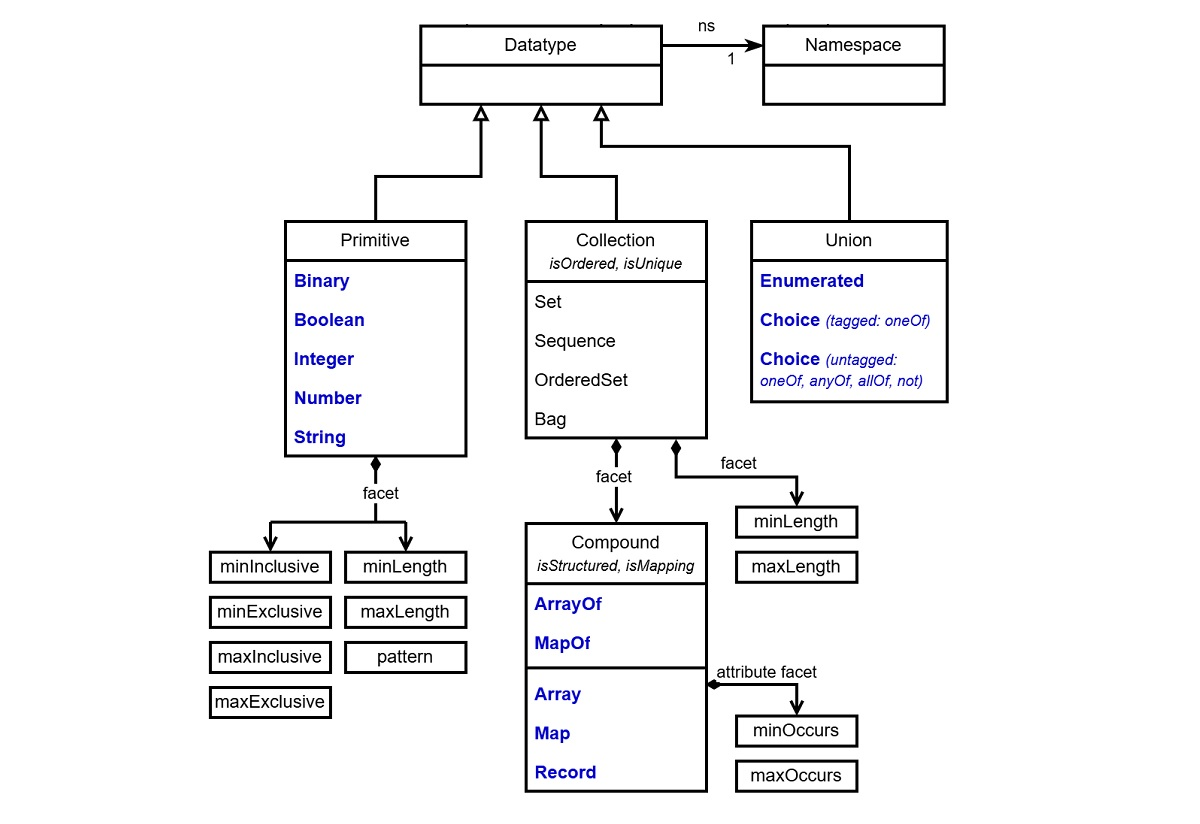
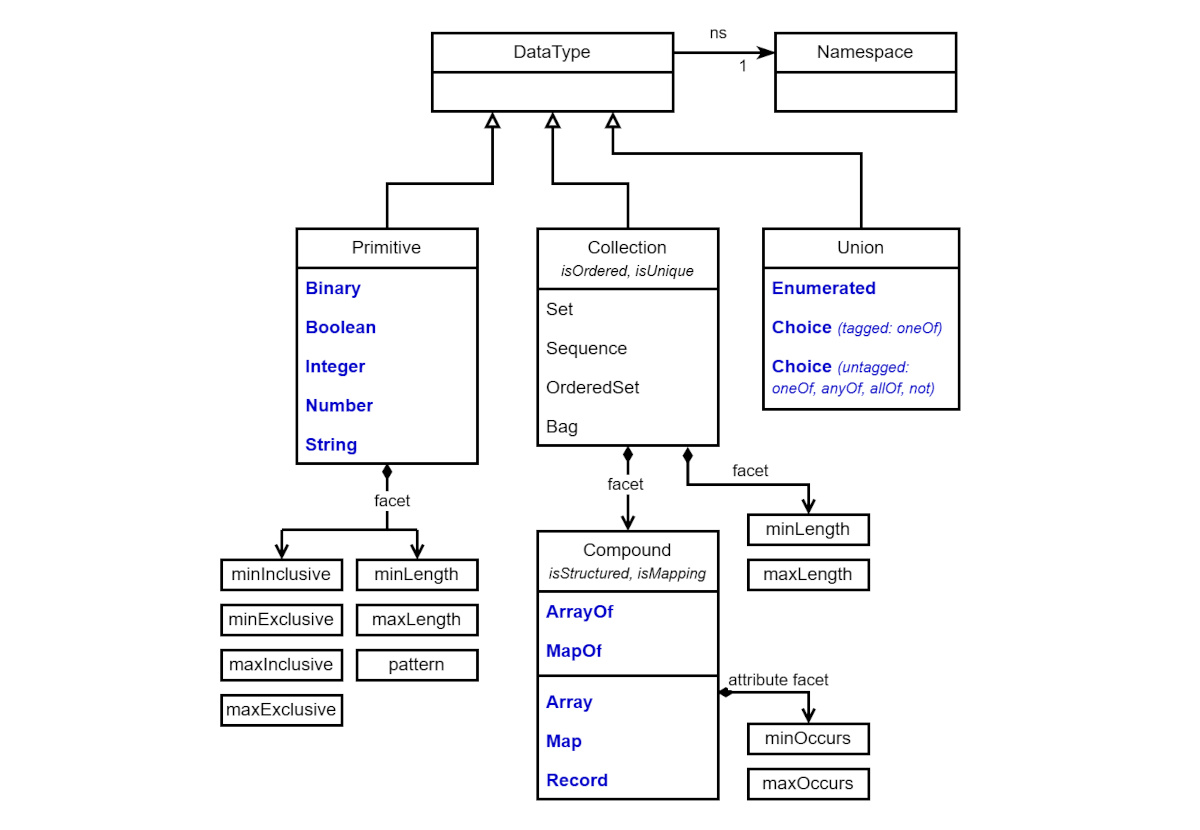
updates from review

Changed region(s): [[0.4317, 0.2124, 0.8017, 0.9709], [0.1542, 0.2124, 0.4008, 0.8799], [0.3392, 0.0303, 0.8017, 0.2124]]

diff --git a/jadn-v2.0.md b/jadn-v2.0.md
@@ -5,7 +5,7 @@
 
 ## Committee Specification Draft 01
 
-## 8 January 2025
+## 22 January 2025
 
 &nbsp;
 
@@ -36,8 +36,8 @@ David Kemp (d.kemp@cyber.nsa.gov), [National Security Agency](https://www.nsa.go
 
 #### Additional artifacts:
 This prose specification is one component of a Work Product that also includes:
-* JSON schema for JADN documents: https://docs.oasis-open.org/openc2/jadn/v1.0/cs01/schemas/jadn-v1.1.json
-* JADN schema for JADN documents: https://docs.oasis-open.org/openc2/jadn/v1.0/cs01/schemas/jadn-v1.1.jadn
+* JSON schema for JADN documents: https://docs.oasis-open.org/openc2/jadn/v2.0/cs01/schemas/jadn-v2.0.json
+* JADN schema for JADN documents: https://docs.oasis-open.org/openc2/jadn/v2.0/cs01/schemas/jadn-v2.0.jadn
 
 #### Abstract:
 An Information Model (IM) defines the meaning and essential content of data used in computing independently
@@ -125,8 +125,8 @@ information conveyed in a message is not directly related to the size or format 
 * **Data items** (documents, messages, protocol data units, data structures, object state, etc.)
 are JADN's scope within a system's domain of discourse.
 
-An information model answers the question "What does the recipient know after receiving a data item"?
-It defines and communicates a form separately from the values used to fill it in.
+An information model defines the question "What does the recipient know after receiving
+a data item" separately from "what does a data item look like".
 
 > *The objective of UML is to provide system architects, software engineers, and software developers
 with tools for analysis, design, and implementation of software-based systems as well as for modeling
@@ -265,11 +265,11 @@ organized into abstract schema packages which are included in an application's i
 ![Information Model Structure](images/im-toplevel.jpg)
 ###### Figure 2-1 -- Information Model Organization
 
-* An IM consists of a set of abstract schemas that define information content, and a set of
+* A JADN IM consists of a set of abstract schemas that define information content, and a set of
 encoding rules that define the lexical-to-value mapping in a specific data format for each JADN core type.
 * Schema is the top level JADN type. It has two fields:
   * "Metadata" containing descriptive and functional information about the schema package as a whole.
-  * List of "Type" containing JADN type definitions. Every type definition is a UML DataType
+  * List of "Type" containing JADN type definitions. Every type definition is a UML DataType.
 * An instance of the Schema type is identified by a globally-unique package namespace.
 Types defined in a package have names qualified by its namespace, and reference types defined in other
 packages by their qualified names. An individual Schema instance is called a "package" because it is an
@@ -283,9 +283,9 @@ Applications load relevant package(s) plus any additional packages needed to res
 [Section 5](#5-shortcuts) defines shortcuts that make type definitions more convenient without affecting meaning.  \
 [Section 6](#6-serialization-and-data-formats) discusses using encoding rules to define concrete data formats.  \
 [Section 7](#7-alternate-schema-representations) describes non-normative alternate JADN schema formats:
-* a text-based information definition language (IDL) defined and validated by a language grammar
-* property tables used in protocol or document format specifications
-* entity-relationship diagrams (ERDs) used for data modeling
+  * a text-based information definition language (IDL) defined and validated by a language grammar
+  * property tables used in protocol or document format specifications
+  * entity-relationship diagrams (ERDs) used for data modeling
 
 The normative format of a Schema package, as defined in Sections 3 and 4, is JSON data that can be validated by a
 schema, but a package can also be represented unambiguously in other formats more suited to human understanding.
@@ -302,7 +302,7 @@ A UML package is a namespace for its members, and a JADN abstract schema is comp
 All packages, including the one defining JADN itself, are instances of JADN's `Schema` type.
 Schema has two fields: package metadata defined in this section
 ([Figure 3-1](#figure-3-1----jadn-schema-metadata)), and a list of type definitions defined
-in the [next section](#4-jadn-types).
+in [Section 4](#4-jadn-types).
 
 ```
        title: "JADN Metaschema"
@@ -369,7 +369,6 @@ These Metadata fields affect schema processing:
 * **package:** A namespace [[IRI](#iri)] that unambiguously identifies this Schema instance and allows type
 definitions in this package to be unambiguously referenced from other packages.
 This is a unique identifier but not necessarily a resource locator.
-If Metadata is present in a Schema instance it must include the package field; all other fields are optional.
 
 * **version:** Incremental revision of this package, a string that compares lexicographically higher
 than previous revisions. A package namespace uniquely identifies both the topic and published version
@@ -411,17 +410,18 @@ are prefixed names that include an NSID.
   * **Size Limits:** These variables define default maximum sizes for variable-sized
 Primitive and Compound types ([Section 4](#4-jadn-types)).
 Individual type definitions override implementation or package defaults using type options.
-    * **$MaxBinary:** Maximum number of octets in a Binary instance. Default maxLength = 255
-    * **$MaxString:** Maximum number of characters in a String instance. Default maxLength = 255
-    * **$MaxElements:** Maximum number of items in an ArrayOf or MapOf instance. Default maxOccurs = 255
+    * **$MaxBinary:** Maximum number of octets in a Binary instance. Default `maxLength` = 255
+    * **$MaxString:** Maximum number of characters in a String instance. Default `maxLength` = 255
+    * **$MaxElements:** Maximum number of items in an ArrayOf or MapOf instance. Default `maxOccurs` = 255
 
-### 3.1.4 Package Conformance Requirements
+### 3.1.3 Package Conformance Requirements
 * The $TypeName format MUST permit TypeNames containing the $Sys character, which is used
 in type names generated by schema processing and translation.
 * The $FieldName format MUST NOT permit FieldNames containing the $Sys character, to enable its
 use as a path component separator.
 * A TypeRef instance MUST be a qualified name (`QName`) as defined in [[XML Namespaces](#xml-namespaces)]
 using $NSID and $TypeName instances as `Prefix` and `LocalPart` respectively.
+* If Metadata is present in a Schema instance it MUST include the package field; all other fields are optional.
 
 -------
 
@@ -498,9 +498,9 @@ Each type definition has five elements:
 
 **Defaults:**
 
-If TypeOptions is not present in a type definition, its default is the empty array.  \
-If TypeDescription is not present, its default is the empty string.  \
-If Fields is not present, its default is the empty array.
+* If TypeOptions is not present in a type definition, its default is the empty array.
+* If TypeDescription is not present, its default is the empty string.
+* If Fields is not present, its default is the empty array.
 
 ### 4.1.1 Primitive
 If CoreType is a Primitive or unstructured Compound type, the **Fields** array is empty.
@@ -703,8 +703,8 @@ Compound TypeOptions are listed in [Table 4-2](#table-4-2-typeoptions-specific-t
 
 | ID   | Chr | Type    | Name           | Description                                                   |
 |------|:---:|---------|----------------|---------------------------------------------------------------|
-| 0x2a |  *  | String  | vtype          | Value type for ArrayOf and MapOf                              |
-| 0x2b |  +  | String  | ktype          | Key type for MapOf                                            |
+| 0x2a |  *  | TypeRef | vtype          | Value type for ArrayOf and MapOf                              |
+| 0x2b |  +  | TypeRef | ktype          | Key type for MapOf                                            |
 | 0x7b |  {  | Integer | minLength      | Minimum number of items in a collection, default is 0         |
 | 0x7d |  }  | Integer | maxLength      | Maximum number of items in a collection, default is unlimited |
 | 0x3d |  =  | Boolean | id             | Fields are identified by FieldID not FieldName                |
@@ -807,7 +807,7 @@ multiple instances of a type.
 
 #### 4.2.2.2 Compound Type Conformance Requirements
 
-* A compound type MUST NOT include more than on multiplicity option (set, unique, ordered, or unordered).
+* A compound type MUST NOT include more than one multiplicity option (set, unique, ordered, or unordered).
 * If CoreType is ArrayOf, TypeOptions MUST include the vtype option.
 * If CoreType is MapOf, TypeOptions MUST include ktype and vtype options.
 * The ktype option SHOULD be a constrained type such as an enumeration, pattern or semantic valuation keyword
@@ -827,9 +827,9 @@ otherwise identical instance without that key.
 
 ### 4.2.3 Union Types
 
-A union type specifies a set of alternatives used to classify a value, where either a single alternative is
-selected by a tag present in the value, or the value is an instance of a specified combination of alternatives.
-A tag consists of an integer and a string, each of which is unique within a type definition.
+A union type specifies a set of alternatives used to classify a value. Like Compound types, some Union types
+have fields individually identified by tag, where the tag consists of an integer FieldID and a string FieldName,
+each of which is local to and unique within the type definition.
 Union types define a set of tags, types or both:
 
 | Type       | Tag | Type | Definition                                           |
@@ -840,15 +840,18 @@ Union types define a set of tags, types or both:
 
 The TypeOptions applicable to Union types are:
 
-| ID   | Chr | Type    | Name      | Description                                                                 |
-|------|:---:|---------|-----------|-----------------------------------------------------------------------------|
-| 0x3d |  =  | Boolean | id        | Tag is an integer FieldID, not a string FieldName                           |
-| 0x43 |  C  | String  | combine   | Option value is a character specifying an untagged union combining function |
+| ID   | Chr | Type    | Name      | Description                                                                  |
+|------|:---:|---------|-----------|------------------------------------------------------------------------------|
+| 0x3d |  =  | Boolean | id        | If present Tag is an integer FieldID, otherwise a string FieldName           |
+| 0x43 |  C  | String  | combine   | Option value is a character specifying the untagged union combining function |
 
 #### 4.2.3.1 Enumerated
 
-An instance is a value that equals one of a set of specified tags. The `id` option 
-specifies that the value is an integer matching an `item_id`, otherwise it is a string matching `item_value`.
+An Enumerated type defines a vocabulary, an explicitly listed set of values.
+An instance is a value included in the set.
+The `id` option specifies that an instance is an integer matching an `item_id`,
+otherwise it is a string matching the corresponding `item_value`.
+
 
 * Derived Enumeration
 
@@ -875,7 +878,7 @@ A Choice(x) type with a single field can be used to define an alias for FieldTyp
 
 | ID   | Chr | Type    | Name  | Description                                                      |
 |------|:---:|---------|-------|------------------------------------------------------------------|
-| 0x26 |  &  | Integer | tagId | field that specifies the type of this field                      |
+| 0x26 |  &  | Integer | tagId | field that contains the tag for this field                       |
 | 0x4E |  N  | String  | not   | value is not an instance of the field type in an untagged Choice |
 
 #### 4.2.3.5 Union Type Conformance Requirements
@@ -1011,15 +1014,19 @@ Hashes2 Example:
 
 ... an extensible set of ...
 
-| ID   | Chr | Type    | Name         | Description                                       |
-|------|:---:|---------|--------------|---------------------------------------------------|
-| 0x2f |  /  | *       | format       | Semantic validation keyword                       |
+| ID   | Chr | Type       | Name         | Description                                       |
+|------|:---:|------------|--------------|---------------------------------------------------|
+| 0x2f |  /  | Enumerated | format       | Semantic validation keyword                       |
 
-The *format* option value is a semantic validation keyword. Each keyword specifies validation requirements for
-a subset of logical values that are accurately described by authoritative resources.  The *format* option may also
-affect how logical values are serialized, see [Section 6](#6-serialization-and-data-formats).
+The *format* option value is a semantic validation keyword selected from a defined set of options.
+Each keyword specifies validation requirements for logical values that are accurately described by authoritative
+resources, and the serialized (literal) representations of those values. For formats whose logical type equals
+the literal type (e.g., /email, /hostname for string values), validation operates on that type. For 
 
-#### 4.2.4.1 JADN Semantic Validation
+
+The *format* option may also affect how logical values are serialized, see [Section 6](#6-serialization-and-data-formats).
+
+#### 4.2.4.1 JADN Semantic Validation Keywords
 
 | Keyword   | Type    | Requirement                                                                                    |
 |-----------|---------|------------------------------------------------------------------------------------------------|
@@ -1037,7 +1044,7 @@ affect how logical values are serialized, see [Section 6](#6-serialization-and-d
 | f128      | Number  | IEEE 754 Quadruple-Precision Float                                                             |
 | f256      | Number  | IEEE 754 Octuple-Precision Float                                                               |
 
-#### 4.2.4.2 XSD Semantic Validation
+#### 4.2.4.2 XSD Semantic Validation Keywords
 
 Semantic validation keywords defined in [[XSD]()].
 
@@ -1046,13 +1053,20 @@ Semantic validation keywords defined in [[XSD]()].
 | XML Schema formats | String  |  |
 
 
-#### 4.2.4.3 JSON Schema Semantic Validation
+#### 4.2.4.3 JSON Schema Semantic Validation Keywords
+
+[JSON Schema]() defines Semantic Content With Format
 
 Semantic validation keywords defined in [[JSON Schema](#jsonschema)] Section 7.3.
 
-| Keyword             | Type    | Requirement                                                                           |
-|---------------------|---------|---------------------------------------------------------------------------------------|
-| JSON Schema formats | String  |  |
+| Keyword   | Type    | Requirement                                                             |
+|-----------|---------|-------------------------------------------------------------------------|
+| date-time | Integer | POSIX time formatted as defined by [RFC 3339]() Section 5.6 "date-time" |
+| date      | Integer | POSIX time "full-date"                                                  |
+| time      | Integer | POSIX time "full-time"                                                  |
+| duration  | Integer | Duration formatted as defined in RFC 3339 Appendix A                    |
+| email     | String  | Internet Email address as defined by [RFC 5322]() Section 3.4.1         |
+| idn-email | String  | Internet Email address as defined by [RFC 6531]()                       |
 
 ### 4.2.5 General Type Options
 
